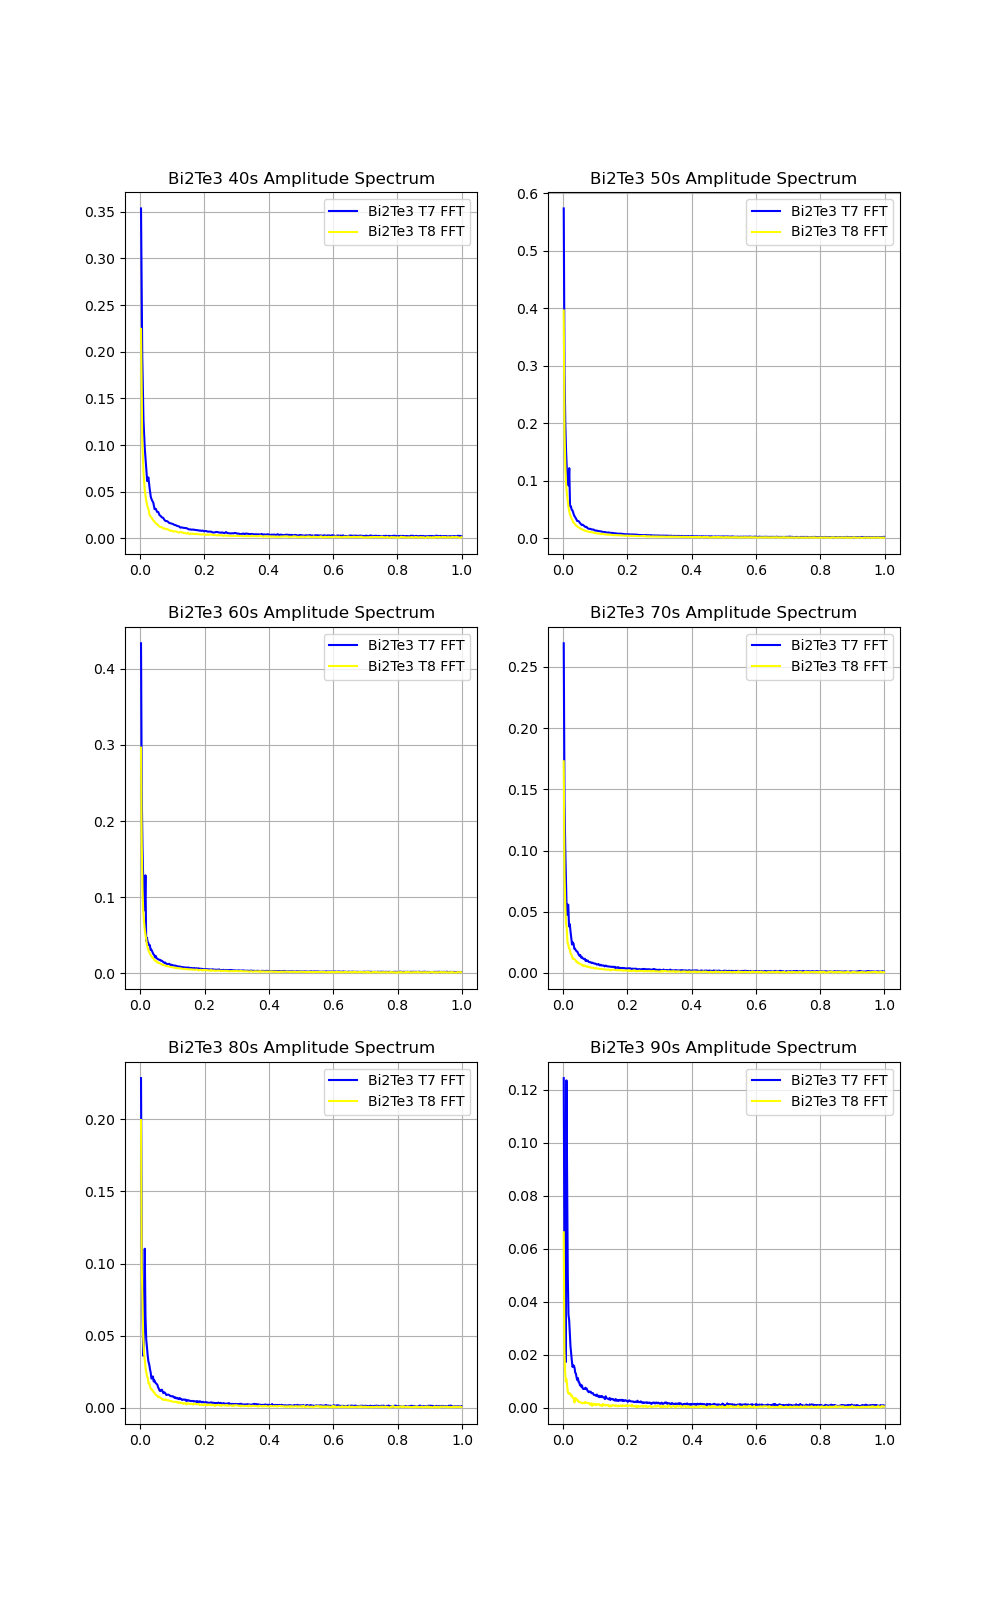
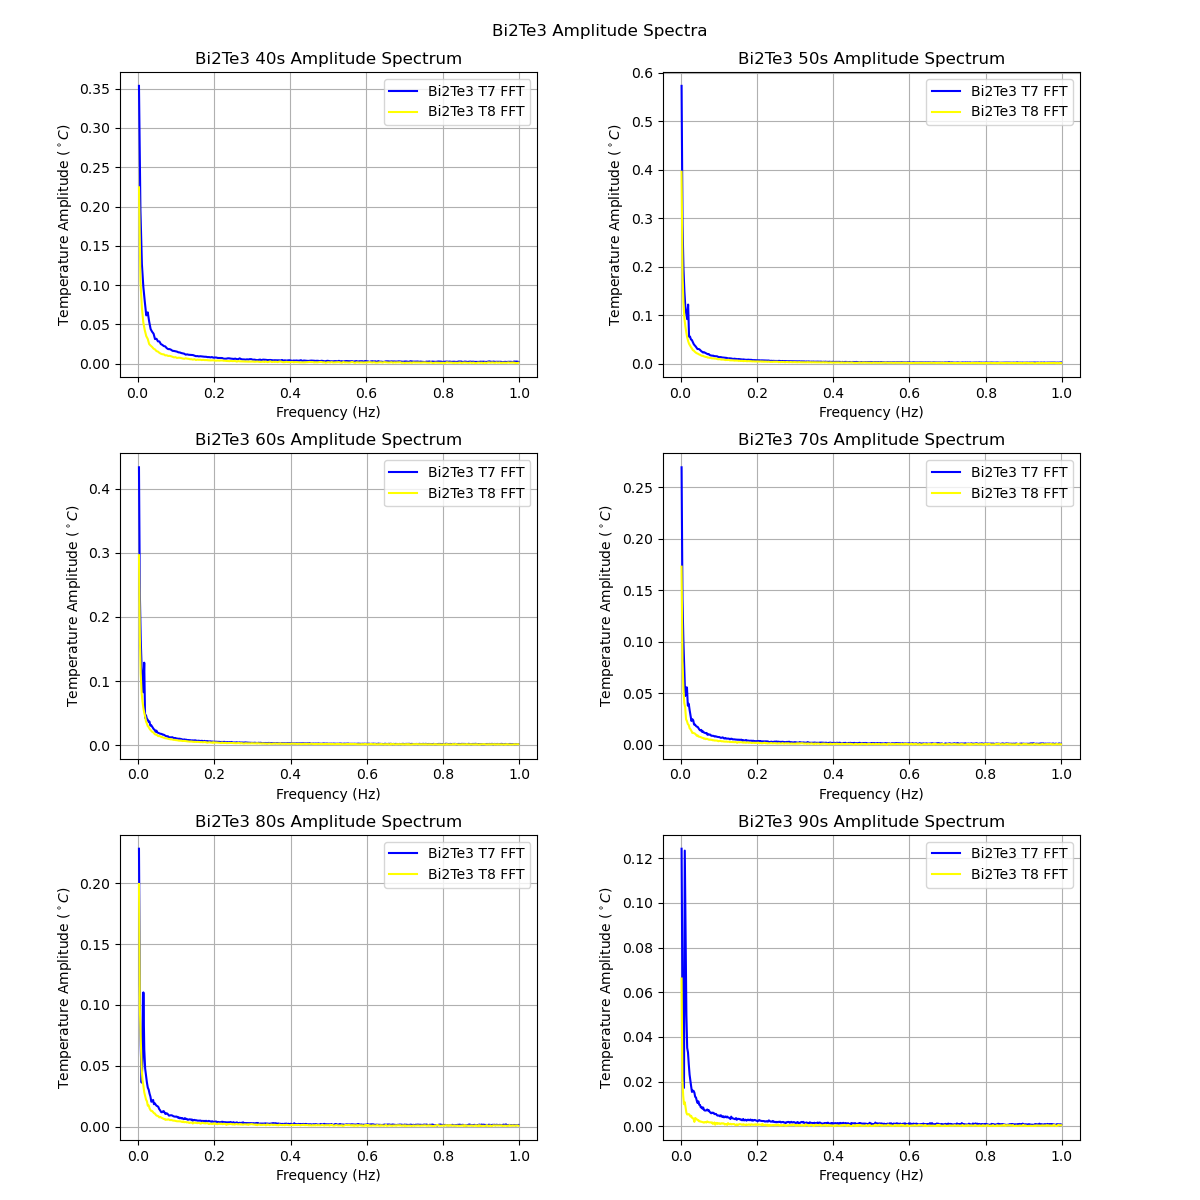
Plots fixed no suptitle, added xylabels, fixed margin

diff --git a/A6/analysis/FOEP_A6-Angstrom.py b/A6/analysis/FOEP_A6-Angstrom.py
@@ -116,18 +116,23 @@ for i in range(6):
 
 ## Raw Data Plots  ##
 
-Sifig, Siaxs = plt.subplots(1, 2, figsize = (10, 6))
-Siredfig, Siredaxs = plt.subplots(1, 2, figsize = (10, 6))
-Bi2Te3fig, Bi2Te3axs = plt.subplots(3, 2, figsize = (10, 16))
-Bi2Te3redfig, Bi2Te3redaxs = plt.subplots(3, 2, figsize = (10, 16))
+Sifig, Siaxs = plt.subplots(1, 2, figsize = (12, 5))
+Siredfig, Siredaxs = plt.subplots(1, 2, figsize = (12, 5))
+Bi2Te3fig, Bi2Te3axs = plt.subplots(3, 2, figsize = (12, 12))
+Bi2Te3redfig, Bi2Te3redaxs = plt.subplots(3, 2, figsize = (12, 12))
+plt.subplots_adjust(left = 0.1, bottom = 0.05, top = 0.94, right = 0.9, wspace = 0.3, hspace = 0.25)
 for i in range(2):
     Siaxs[i].plot(Sidata[i][0], Sidata[i][1], color = 'blue', label = f"Si 30s Trial{Sitrial[i]}-T2")
     Siaxs[i].plot(Sidata[i][0], Sidata[i][2], color = 'yellow', label = f"Si 30s Trial{Sitrial[i]}-T1")
+    Siaxs[i].set_xlabel("Time (s)")
+    Siaxs[i].set_ylabel("Temperature ($^\circ C$)")
     Siaxs[i].grid()
     Siaxs[i].legend()
     Siaxs[i].set_title(f"Si Trial{Sitrial[i]}")
     Siredaxs[i].plot(Sireddata[i][0], Sireddata[i][1], color = 'blue', label = f"Si Reduced 30s Trial{Sitrial[i]}-T2")
     Siredaxs[i].plot(Sireddata[i][0], Sireddata[i][2], color = 'yellow', label = f"Si Reduced 30s Trial{Sitrial[i]}-T1")
+    Siredaxs[i].set_xlabel("Time (s)")
+    Siredaxs[i].set_ylabel("Temperature ($^\circ C$)")
     Siredaxs[i].grid()
     Siredaxs[i].legend()
     Siredaxs[i].set_title(f"Si Reduced Trial{Sitrial[i]}")
@@ -136,11 +141,15 @@ for i in range(3):
         index = 2 * i + j
         Bi2Te3axs[i][j].plot(Bi2Te3data[index][0], Bi2Te3data[index][1], color = 'blue', label = f"Bi2Te3 {Bi2Te3time[index]}s T7")
         Bi2Te3axs[i][j].plot(Bi2Te3data[index][0], Bi2Te3data[index][2], color = 'yellow', label = f"Bi2Te3 {Bi2Te3time[index]}s T8")
+        Bi2Te3axs[i][j].set_xlabel("Time (s)")
+        Bi2Te3axs[i][j].set_ylabel("Temperature ($^\circ C$)")
         Bi2Te3axs[i][j].grid()
         Bi2Te3axs[i][j].legend()
         Bi2Te3axs[i][j].set_title(f"Bi2Te3 {Bi2Te3time[index]}s")
         Bi2Te3redaxs[i][j].plot(Bi2Te3reddata[index][0], Bi2Te3reddata[index][1], color = 'blue', label = f"Bi2Te3 Reduced {Bi2Te3time[index]}s T7")
         Bi2Te3redaxs[i][j].plot(Bi2Te3reddata[index][0], Bi2Te3reddata[index][2], color = 'yellow', label = f"Bi2Te3 Reduced {Bi2Te3time[index]}s T8")
+        Bi2Te3redaxs[i][j].set_xlabel("Time (s)")
+        Bi2Te3redaxs[i][j].set_ylabel("Temperature ($^\circ C$)")
         Bi2Te3redaxs[i][j].grid()
         Bi2Te3redaxs[i][j].legend()
         Bi2Te3redaxs[i][j].set_title(f"Bi2Te3 Reduced {Bi2Te3time[index]}s")
@@ -152,15 +161,17 @@ Bi2Te3fig.suptitle("Bi2Te3 Temperature to Time Graphs")
 Bi2Te3fig.savefig("../pics/Bi2Te3-T7T8.png")
 Bi2Te3redfig.suptitle("Bi2Te3 Temperature to Time (Reduced) Graphs")
 Bi2Te3redfig.savefig("../pics/Bi2Te3-Reduced-T7T8.png")
-# plt.show()
+plt.show()
 
 ## FFT ##
 
 # Use reduced data to perform FFT
 
 # Si FFT Figures
-Sifftampfig, Sifftampaxs = plt.subplots(1, 2, figsize = (10, 6))
-Sifftphasefig, Sifftphaseaxs = plt.subplots(1, 2, figsize = (10, 6))
+Sifftampfig, Sifftampaxs = plt.subplots(1, 2, figsize = (12, 5))
+plt.subplots_adjust(left = 0.1, bottom = 0.1, top = 0.9, right = 0.9, wspace = 0.2, hspace = 0.25)
+Sifftphasefig, Sifftphaseaxs = plt.subplots(1, 2, figsize = (12, 5))
+plt.subplots_adjust(left = 0.1, bottom = 0.1, top = 0.9, right = 0.9, wspace = 0.2, hspace = 0.25)
 # Siffisig[i][j][n] Amplitude spectrum of Trial i, Tj
 # i: Trial 1, 2
 # j: T2, T1
@@ -198,20 +209,24 @@ for i in range(2):
         print()
     Sifftampaxs[i].plot(Sisigfreq[i][0], Siamp[i][0], color = 'blue', label = "Si T2 Amplitude")
     Sifftampaxs[i].plot(Sisigfreq[i][0], Siamp[i][1], color = 'yellow', label = "Si T1 Amplitude")
+    Sifftampaxs[i].set_xlabel("Frequency (Hz)")
+    Sifftampaxs[i].set_ylabel("Temperature Amplitude ($^\circ C$)")
     Sifftampaxs[i].grid()
     Sifftampaxs[i].legend()
     Sifftampaxs[i].set_title(f"Si Trial {Sitrial[i]} Amplitude Spectrum")
     Sifftphaseaxs[i].plot(Sisigfreq[i][0], Siphase[i][0], color = 'blue', label = "Si T2 Phase")
     Sifftphaseaxs[i].plot(Sisigfreq[i][0], Siphase[i][1], color = 'yellow', label = "Si T1 Phase")
+    Sifftphaseaxs[i].set_xlabel("Frequency (Hz)")
+    Sifftphaseaxs[i].set_ylabel("Phase (rad)")
     Sifftphaseaxs[i].grid()
     Sifftphaseaxs[i].legend()
     Sifftphaseaxs[i].set_title(f"Si Trial {Sitrial[i]} Phase Spectrum")
 # Saving figures
-Sifftampfig.savefig("../pics/Si_FFT_Amplitude_Spectra.png")
 Sifftampfig.suptitle("Si Amplitude Spectra")
-Sifftphasefig.savefig("../pics/Si_FFT_Phase_Spectra.png")
+Sifftampfig.savefig("../pics/Si_FFT_Amplitude_Spectra.png")
 Sifftphasefig.suptitle("Si Phase Spectra")
-# plt.show()
+Sifftphasefig.savefig("../pics/Si_FFT_Phase_Spectra.png")
+plt.show()
 
 ## Spectral Analysis
 
@@ -261,7 +276,8 @@ for i in range(2):
 print()
 
 ## Bi2Te3 FFT
-Bi2Te3fftampfig, Bi2Te3fftampaxs = plt.subplots(3, 2, figsize = (10, 16))
+Bi2Te3fftampfig, Bi2Te3fftampaxs = plt.subplots(3, 2, figsize = (12, 12))
+plt.subplots_adjust(left = 0.1, bottom = 0.05, top = 0.94, right = 0.9, wspace = 0.3, hspace = 0.25)
 # Bi2Te3ffisig[i][j][n] Amplitude spectrum of Time 40 + 10 * i sec, T7 or T8, resp. j
 # i from 0 to 5: 40, 50, 60, 70, 80, 90
 # j from 0 to 1: T7, T8
@@ -296,24 +312,28 @@ for i in range(3):
             print()
         Bi2Te3fftampaxs[i][j].plot(Bi2Te3sigfreq[index][0], Bi2Te3amp[index][0], color = 'blue', label = "Bi2Te3 T7 FFT")
         Bi2Te3fftampaxs[i][j].plot(Bi2Te3sigfreq[index][0], Bi2Te3amp[index][1], color = 'yellow', label = "Bi2Te3 T8 FFT")
+        Bi2Te3fftampaxs[i][j].set_xlabel("Frequency (Hz)")
+        Bi2Te3fftampaxs[i][j].set_ylabel("Temperature Amplitude ($^\circ C$)")
         Bi2Te3fftampaxs[i][j].grid()
         Bi2Te3fftampaxs[i][j].legend()
         Bi2Te3fftampaxs[i][j].set_title(f"Bi2Te3 {Bi2Te3time[index]}s Amplitude Spectrum")
-Bi2Te3fftampfig.savefig("../pics/Bi2Te3_FFT_Amplitude_Spectra.png")
 Bi2Te3fftampfig.suptitle("Bi2Te3 Amplitude Spectra")
+Bi2Te3fftampfig.savefig("../pics/Bi2Te3_FFT_Amplitude_Spectra.png")
 
 ## Focusing on 80s, 90s cases
-Bi2Te3fftphasefig, Bi2Te3fftphaseaxs = plt.subplots(1, 2, figsize = (10, 6))
+Bi2Te3fftphasefig, Bi2Te3fftphaseaxs = plt.subplots(1, 2, figsize = (12, 5))
+plt.subplots_adjust(left = 0.1, bottom = 0.1, top = 0.9, right = 0.9, wspace = 0.2, hspace = 0.25)
 for i in range(2):
     Bi2Te3fftphaseaxs[i].plot(Bi2Te3sigfreq[i + 4][0], Bi2Te3phase[i + 4][0], color = 'blue', label = "Bi2Te3 T7 Phase")
     Bi2Te3fftphaseaxs[i].plot(Bi2Te3sigfreq[i + 4][0], Bi2Te3phase[i + 4][1], color = 'yellow', label = "Bi2Te3 T8 Phase")
+    Bi2Te3fftphaseaxs[i].set_xlabel("Frequency (Hz)")
+    Bi2Te3fftphaseaxs[i].set_ylabel("Phase (rad)")
     Bi2Te3fftphaseaxs[i].grid()
     Bi2Te3fftphaseaxs[i].legend()
     Bi2Te3fftphaseaxs[i].set_title(f"Bi2Te3 {Bi2Te3time[i + 4]}s Phase Spectrum")
-Bi2Te3fftphasefig.savefig("../pics/Bi2Te3_FFT_Phase_Spectra.png")
 Bi2Te3fftphasefig.suptitle("Bi2Te3 Phase Spectra")
-    
-# plt.show()
+Bi2Te3fftphasefig.savefig("../pics/Bi2Te3_FFT_Phase_Spectra.png")
+plt.show()
 
 ## Spectral Analysis
 
